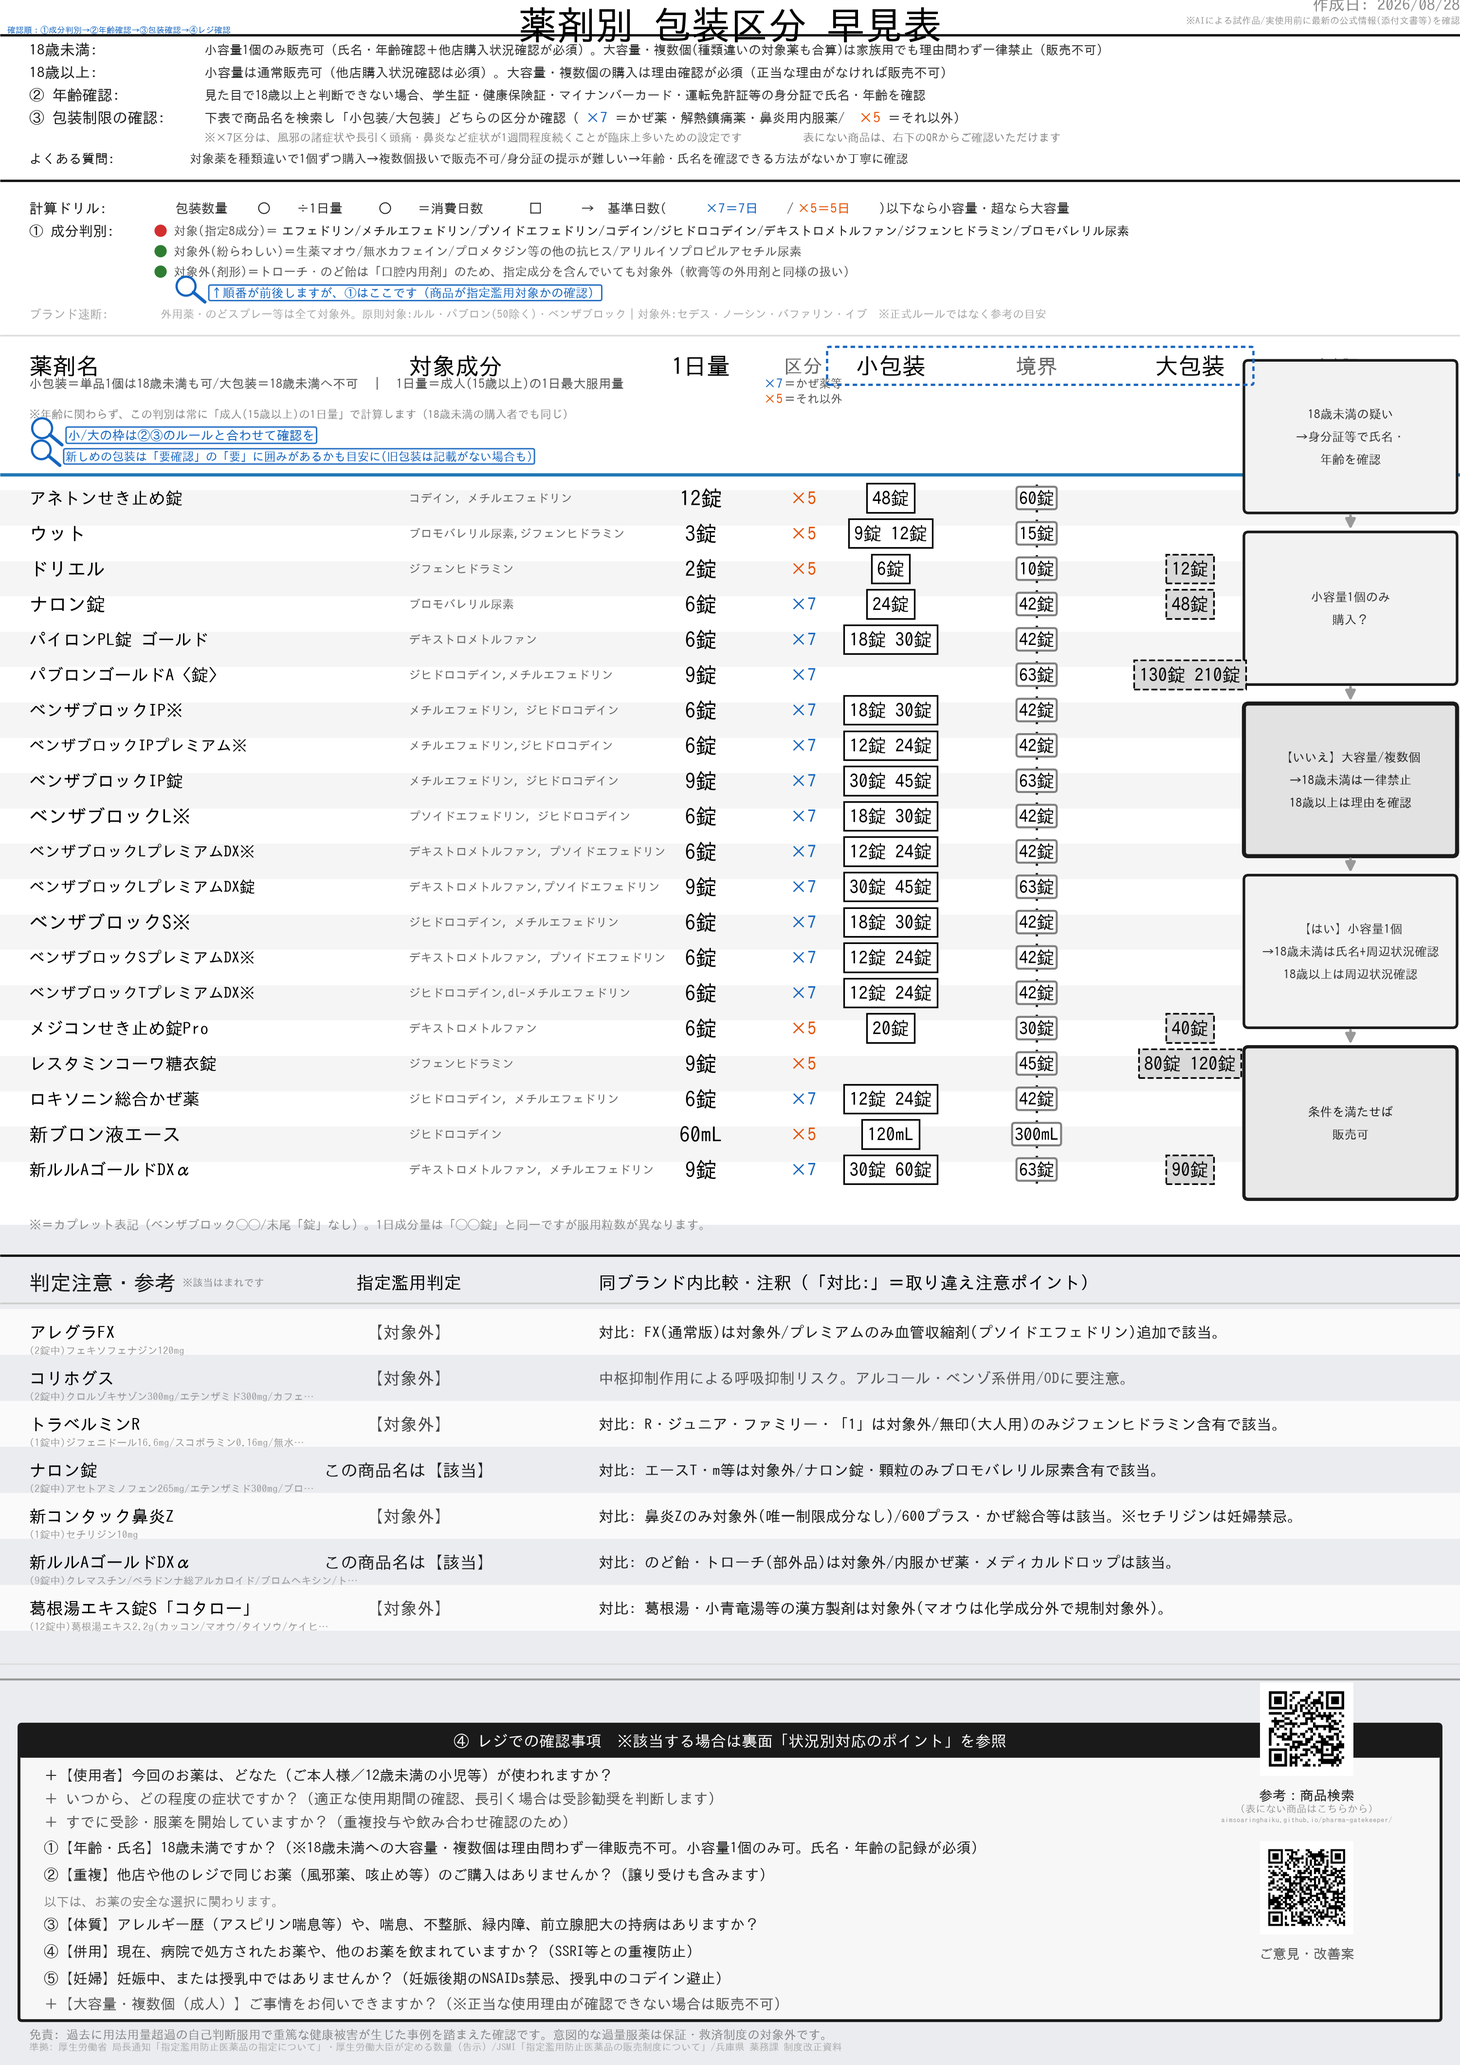
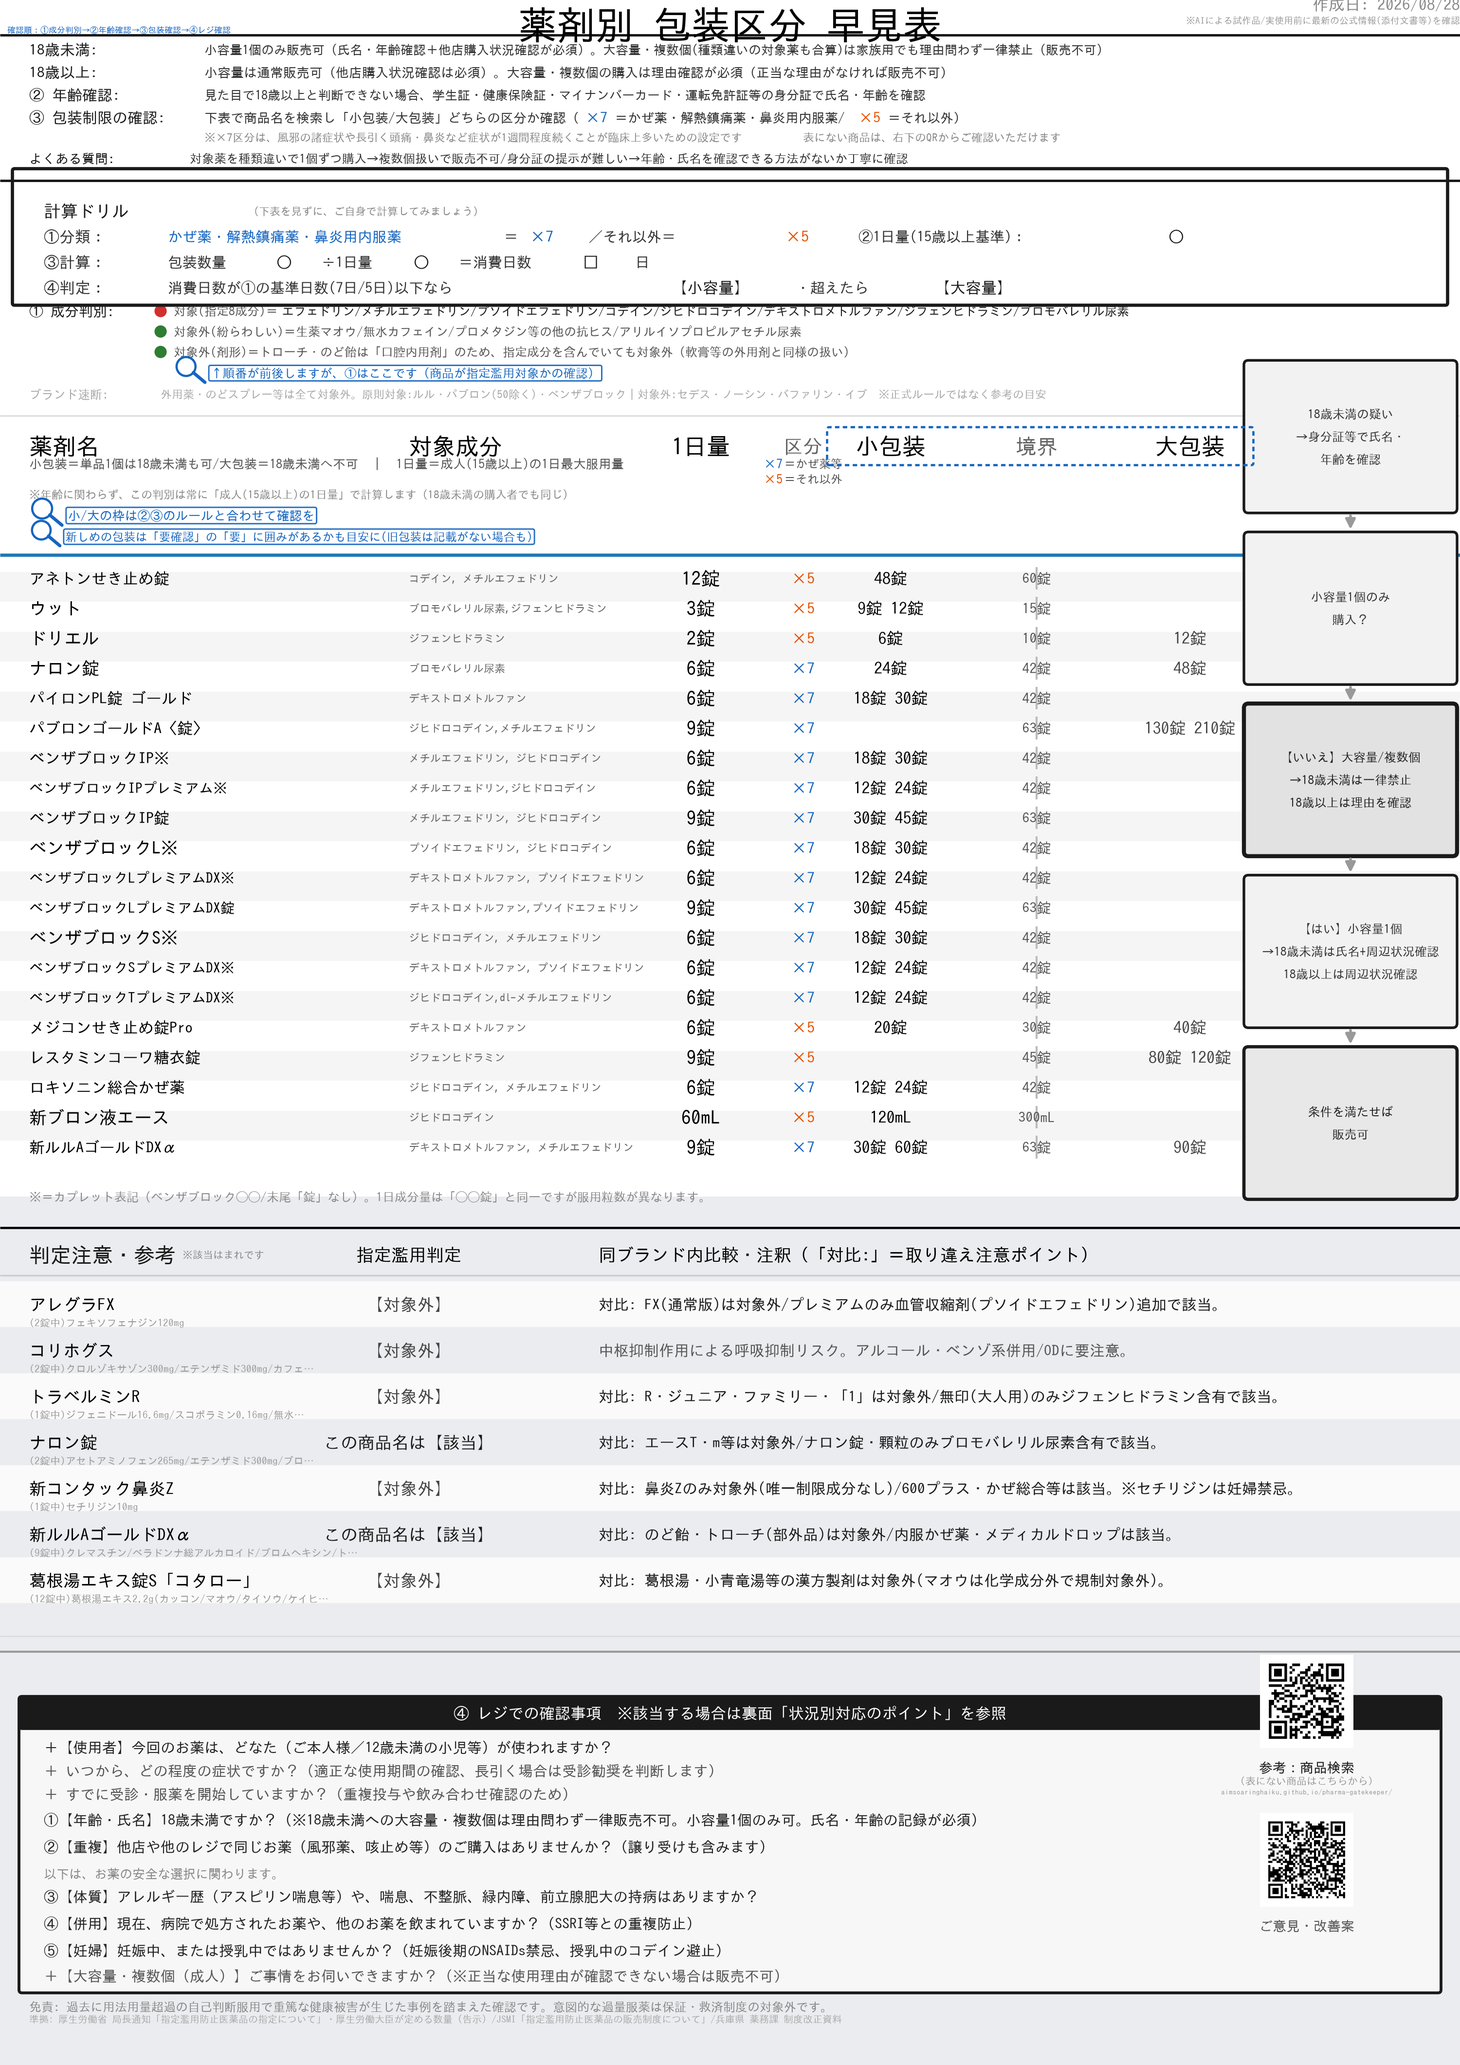
裏面: 虫眼鏡レンズを元資料の該当箇所に重ね脚注ボックスへ線を伸ばす方式に変更 表面: ドリルを拡大・太枠化し情報量を増加、製品テーブルの行間を圧縮して枠を廃止
裏面:
- draw_focus_footnote()を新設。虫眼鏡のレンズを元資料(画像)内の実際の
  言及箇所に直接重ね、点線の持ち手を余白の脚注ボックスまで伸ばして
  「」付きテキストで説明する構成に変更(参考①②③すべてに適用)
- wrap_to_widthが「」を改行区切りとして認識していなかったため、
  脚注文の末尾で孤立行が出る不具合も修正

表面:
- 「計算ドリル」を1行のミニ版から、①分類→②1日量→③計算→④判定の
  4行構成・太枠囲みに拡大し情報量を増やした
- 製品テーブルの行高を2.42→2.05に圧縮し、生まれた余白をドリル拡大に
  充当。小包装/境界/大包装の数値を囲んでいた□を廃止し、太字のみに
  変更してすっきりさせた

Claude-Session: https://claude.ai/code/session_01HtDFe8WnY993KR3Dojx73s

diff --git a/vpc_v12_front.py b/vpc_v12_front.py
@@ -246,22 +246,41 @@ current_y -= 1.5
 ax.hlines(current_y, 0, LOGICAL_W, colors=INK, linewidth=1.2)
 current_y -= 0.35
 
-# --- 計算手順・成分判別・ブランド速断（実務でよく使う判別系を、本体テーブルの直前に集約） ---
-current_y -= 1.55
-ax.text(COL_NAME_X, current_y, "計算ドリル:", fontsize=7.07, fontweight="bold", ha="left", va="center", color=INK)
-ax.text(COL_NAME_X + 10.0, current_y, "包装数量", fontsize=6.4, ha="left", va="center", color="#333333")
-ax.text(COL_NAME_X + 15.6, current_y, "〇", fontsize=7.0, fontweight="bold", ha="left", va="center", color=INK)
-ax.text(COL_NAME_X + 18.3, current_y, "÷1日量", fontsize=6.4, ha="left", va="center", color="#333333")
-ax.text(COL_NAME_X + 23.9, current_y, "〇", fontsize=7.0, fontweight="bold", ha="left", va="center", color=INK)
-ax.text(COL_NAME_X + 26.6, current_y, "＝消費日数", fontsize=6.4, ha="left", va="center", color="#333333")
-ax.text(COL_NAME_X + 34.2, current_y, "□", fontsize=7.0, fontweight="bold", ha="left", va="center", color=INK)
-ax.text(COL_NAME_X + 36.9, current_y,
-        "　→　基準日数(", fontsize=6.4, ha="left", va="center", color="#333333")
-ax.text(COL_NAME_X + 46.3, current_y, "×7＝7日", fontsize=6.4, fontweight="bold", ha="left", va="center", color=BLUE)
-ax.text(COL_NAME_X + 51.9, current_y, "/", fontsize=6.4, ha="left", va="center", color="#333333")
-ax.text(COL_NAME_X + 52.6, current_y, "×5＝5日", fontsize=6.4, fontweight="bold", ha="left", va="center", color=ORANGE)
-ax.text(COL_NAME_X + 58.2, current_y, ")以下なら小容量・超なら大容量", fontsize=6.4, ha="left", va="center", color="#333333")
-current_y -= 1.55
+# --- 計算ドリル（実務でよく使う判別系を、本体テーブルの直前に集約。太枠で目立たせる） ---
+DRILL_FS, DRILL_LH = 7.6, 1.75
+drill_top = current_y + 1.0
+current_y -= 1.75
+ax.text(COL_NAME_X + 1.0, current_y, "計算ドリル", fontsize=8.3, fontweight="bold", ha="left", va="center", color=INK)
+ax.text(COL_NAME_X + 15.0, current_y, "（下表を見ずに、ご自身で計算してみましょう）", fontsize=5.4, fontstyle="italic",
+        ha="left", va="center", color=LGRAY)
+current_y -= DRILL_LH
+ax.text(COL_NAME_X + 1.0, current_y, "①分類：", fontsize=DRILL_FS, fontweight="bold", ha="left", va="center", color="#333333")
+ax.text(COL_NAME_X + 9.5, current_y, "かぜ薬・解熱鎮痛薬・鼻炎用内服薬", fontsize=DRILL_FS - 0.4, ha="left", va="center", color=BLUE)
+ax.text(COL_NAME_X + 32.5, current_y, "＝", fontsize=DRILL_FS - 0.4, ha="left", va="center", color="#333333")
+ax.text(COL_NAME_X + 34.3, current_y, "×7", fontsize=DRILL_FS, fontweight="bold", ha="left", va="center", color=BLUE)
+ax.text(COL_NAME_X + 38.3, current_y, "／それ以外＝", fontsize=DRILL_FS - 0.4, ha="left", va="center", color="#333333")
+ax.text(COL_NAME_X + 51.8, current_y, "×5", fontsize=DRILL_FS, fontweight="bold", ha="left", va="center", color=ORANGE)
+ax.text(COL_NAME_X + 55.8, current_y, "　②1日量(15歳以上基準)：", fontsize=DRILL_FS - 0.4, ha="left", va="center", color="#333333")
+ax.text(COL_NAME_X + 78.0, current_y, "〇", fontsize=DRILL_FS + 0.6, fontweight="bold", ha="left", va="center", color=INK)
+current_y -= DRILL_LH
+ax.text(COL_NAME_X + 1.0, current_y, "③計算：", fontsize=DRILL_FS, fontweight="bold", ha="left", va="center", color="#333333")
+ax.text(COL_NAME_X + 9.5, current_y, "包装数量", fontsize=DRILL_FS - 0.4, ha="left", va="center", color="#333333")
+ax.text(COL_NAME_X + 16.9, current_y, "〇", fontsize=DRILL_FS + 0.6, fontweight="bold", ha="left", va="center", color=INK)
+ax.text(COL_NAME_X + 20.0, current_y, "÷1日量", fontsize=DRILL_FS - 0.4, ha="left", va="center", color="#333333")
+ax.text(COL_NAME_X + 26.3, current_y, "〇", fontsize=DRILL_FS + 0.6, fontweight="bold", ha="left", va="center", color=INK)
+ax.text(COL_NAME_X + 29.4, current_y, "＝消費日数", fontsize=DRILL_FS - 0.4, ha="left", va="center", color="#333333")
+ax.text(COL_NAME_X + 37.9, current_y, "□", fontsize=DRILL_FS + 0.6, fontweight="bold", ha="left", va="center", color=INK)
+ax.text(COL_NAME_X + 41.5, current_y, "日", fontsize=DRILL_FS - 0.4, ha="left", va="center", color="#333333")
+current_y -= DRILL_LH
+ax.text(COL_NAME_X + 1.0, current_y, "④判定：", fontsize=DRILL_FS, fontweight="bold", ha="left", va="center", color="#333333")
+ax.text(COL_NAME_X + 9.5, current_y, "消費日数が①の基準日数(7日/5日)以下なら", fontsize=DRILL_FS - 0.4, ha="left", va="center", color="#333333")
+ax.text(COL_NAME_X + 44.0, current_y, "【小容量】", fontsize=DRILL_FS, fontweight="bold", ha="left", va="center", color=INK)
+ax.text(COL_NAME_X + 52.5, current_y, "・超えたら", fontsize=DRILL_FS - 0.4, ha="left", va="center", color="#333333")
+ax.text(COL_NAME_X + 62.0, current_y, "【大容量】", fontsize=DRILL_FS, fontweight="bold", ha="left", va="center", color=INK)
+current_y -= 1.05
+ax.add_patch(patches.FancyBboxPatch((COL_NAME_X - 1.0, current_y), LOGICAL_W - 2 * (COL_NAME_X - 1.0), drill_top - current_y,
+                                     boxstyle="round,pad=0.15", linewidth=1.6, edgecolor=INK, facecolor="none", zorder=6))
+current_y -= 0.55
 ax.text(COL_NAME_X, current_y, "① 成分判別:", fontsize=7.07, fontweight="bold", ha="left", va="center", color=INK)
 marker(ax, COL_NAME_X + 9.0, current_y, RED, "circle", 0.42)
 ax.text(COL_NAME_X + 9.9, current_y, "対象(指定8成分)＝", fontsize=5.9, ha="left", va="center", color=GRAY)
@@ -335,7 +354,7 @@ ax.hlines(current_y, 0, LOGICAL_W, linewidth=1.6)
 current_y -= 1.6
 
 main_rows = len(mart)
-row_height = 2.42
+row_height = 2.05
 
 # --- レジ確認フロー（本体テーブル右の空きスペースに縦長ミニフローチャート） ---
 FLOW_HALF_W = 7.0
@@ -372,10 +391,10 @@ for idx, (lines, edge_color, fill_color, edge_w) in enumerate(flow_nodes):
 
 for i, row in mart.iterrows():
     if i % 2 == 0:
-        ax.add_patch(patches.Rectangle((0, current_y - 1.9), LOGICAL_W, row_height, facecolor="#f5f5f5", edgecolor="none", zorder=0))
+        ax.add_patch(patches.Rectangle((0, current_y - row_height * 0.785), LOGICAL_W, row_height, facecolor="#f5f5f5", edgecolor="none", zorder=0))
 
     name_len = len(row["product"])
-    name_fontsize = 9.4 if name_len <= 8 else (8.5 if name_len <= 12 else 7.6)
+    name_fontsize = 8.6 if name_len <= 8 else (7.8 if name_len <= 12 else 7.0)
     name_text = row["product"] + ("※" if row["is_caplet"] else "")
     ax.text(COL_NAME_X, current_y, name_text, fontsize=name_fontsize, fontweight="bold", ha="left", va="center")
 
@@ -383,27 +402,24 @@ for i, row in mart.iterrows():
         clean_ingr = re.sub(r'(塩酸塩|リン酸塩|硫酸塩|臭化水素酸塩|マレイン酸塩|酒石酸塩|フマル酸塩)', '', row["ingredients"])
         if len(clean_ingr) > 26:
             clean_ingr = clean_ingr[:26] + "…"
-        ax.text(COL_INGR_X, current_y, clean_ingr, fontsize=5.8, ha="left", va="center", color="#666666")
+        ax.text(COL_INGR_X, current_y, clean_ingr, fontsize=5.4, ha="left", va="center", color="#666666")
     else:
-        ax.text(COL_INGR_X, current_y, "-", fontsize=7.93, ha="left", va="center", color="#aaaaaa")
+        ax.text(COL_INGR_X, current_y, "-", fontsize=7.2, ha="left", va="center", color="#aaaaaa")
 
-    ax.text(COL_DOSE_X, current_y, row["daily"], fontsize=10.37, ha="center", va="center")
+    ax.text(COL_DOSE_X, current_y, row["daily"], fontsize=9.4, ha="center", va="center")
 
     mult_color = "#1565c0" if row["limit"] == 7 else "#e65100"
-    ax.text(COL_MULT_X, current_y, f"×{row['limit']}", fontsize=8.54, ha="center", va="center",
+    ax.text(COL_MULT_X, current_y, f"×{row['limit']}", fontsize=7.8, ha="center", va="center",
             color=mult_color, fontweight="bold")
 
     if row["small"] != "-":
-        ax.text(COL_SMALL_X, current_y, row["small"], fontsize=8.91, ha="center", va="center",
-                bbox=dict(boxstyle="square,pad=0.3", facecolor="white", edgecolor="black", linewidth=0.8))
+        ax.text(COL_SMALL_X, current_y, row["small"], fontsize=8.1, fontweight="bold", ha="center", va="center")
 
-    ax.vlines(COL_BOUND_X, current_y - 0.95, current_y + 0.95, color="black", linewidth=1.1, zorder=1)
-    ax.text(COL_BOUND_X, current_y, row["boundary"], fontsize=8.54, ha="center", va="center",
-            bbox=dict(boxstyle="round,pad=0.15", facecolor="white", edgecolor="gray"), zorder=2)
+    ax.vlines(COL_BOUND_X, current_y - 0.78, current_y + 0.78, color="#bbbbbb", linewidth=1.0, zorder=1)
+    ax.text(COL_BOUND_X, current_y, row["boundary"], fontsize=6.9, ha="center", va="center", color=GRAY, zorder=2)
 
     if row["large"] != "-":
-        ax.text(COL_LARGE_X, current_y, row["large"], fontsize=8.91, ha="center", va="center",
-                bbox=dict(boxstyle="square,pad=0.3", facecolor="#d9d9d9", edgecolor="black", linestyle="--", linewidth=0.8))
+        ax.text(COL_LARGE_X, current_y, row["large"], fontsize=8.1, fontweight="bold", ha="center", va="center", color="#444444")
 
     current_y -= row_height
 

diff --git a/vpc_v12_back.py b/vpc_v12_back.py
@@ -58,7 +58,7 @@ def wrap_to_width(text, fontsize, max_width):
     tokens, cur_token = [], ""
     for ch in text:
         cur_token += ch
-        if ch in "。、）)":
+        if ch in "。、）)」":
             tokens.append(cur_token)
             cur_token = ""
     if cur_token:
@@ -84,7 +84,7 @@ def wrap_to_width(text, fontsize, max_width):
 
     merged = []
     for line in final_lines:
-        if merged and len(line) <= 2 and all(c in "。、）)" for c in line):
+        if merged and len(line) <= 2 and all(c in "。、）)」" for c in line):
             merged[-1] += line
         else:
             merged.append(line)
@@ -138,9 +138,29 @@ def draw_magnifier_icon(cx, cy, r, handle_len, color, angle_deg=-40):
     dx, dy = math.cos(rad), math.sin(rad)
     edge_x, edge_y = cx + r * dx, cy + r * dy
     tip_x, tip_y = cx + (r + handle_len) * dx, cy + (r + handle_len) * dy
-    ax.add_patch(patches.Circle((cx, cy), r, facecolor="white", edgecolor=color, linewidth=1.0, zorder=5))
-    ax.plot([edge_x, tip_x], [edge_y, tip_y], color=color, linewidth=1.4, solid_capstyle="round", zorder=5)
+    ax.add_patch(patches.Circle((cx, cy), r, facecolor="none", edgecolor=color, linewidth=1.3, zorder=5))
+    ax.plot([edge_x, tip_x], [edge_y, tip_y], color=color, linewidth=1.5, solid_capstyle="round", zorder=5)
     return tip_x, tip_y
+
+
+def draw_focus_footnote(focus_x, focus_y, lens_r, foot_x, foot_y, text, w, fontsize=3.5, line_h=1.3,
+                         color=RED, halign="left"):
+    """元資料の言及箇所に虫眼鏡のレンズを重ね、持ち手を脚注ボックスまで伸ばして「」付きで説明する。
+    レンズ＝該当箇所に直接かぶせる円。脚注＝余白にボックスで独立配置。"""
+    import math
+    text = text.lstrip("☞")
+    ax.add_patch(patches.Circle((focus_x, focus_y), lens_r, facecolor="none", edgecolor=color, linewidth=1.4, zorder=6))
+    dx, dy = foot_x - focus_x, foot_y - focus_y
+    dist = math.hypot(dx, dy) or 1.0
+    ux, uy = dx / dist, dy / dist
+    edge_x, edge_y = focus_x + lens_r * ux, focus_y + lens_r * uy
+    ax.plot([edge_x, foot_x], [edge_y, foot_y], color=color, linewidth=1.2, linestyle=(0, (3, 2)), zorder=6)
+    lines = wrap_to_width(f"「{text}」", fontsize, w - 1.0)
+    for i, line in enumerate(lines):
+        ax.text(foot_x, foot_y - i * line_h, line, fontsize=fontsize, fontweight="bold",
+                ha=halign, va="center", color=color, fontstyle="italic", zorder=7,
+                bbox=dict(boxstyle="round,pad=0.15", facecolor="white", edgecolor=color, linewidth=0.9, alpha=0.96))
+    return foot_y - len(lines) * line_h
 
 
 def draw_callout_note(cx, cy, text, w, fontsize=3.5, line_h=1.3, color=RED, halign="left"):
@@ -185,8 +205,10 @@ def draw_poster1(x, y_top, w, h):
     y = panel_frame(x, y_top, w, h, "参考① 購入者への掲示例", INK,
                      subtitle="元資料：指定濫用防止医薬品をご購入時フリップ")
     img_x0, img_y1, img_w, img_h = draw_poster_image_fit(x, y, w, y - (y_top - h) - 0.3, IMG_POSTER1)
-    draw_callout_note(img_x0 + img_w * 0.35, img_y1 - 0.370 * img_h,
-                       "☞理由確認は成人(18歳以上)のみ対象", img_w * 0.62, fontsize=4.6, line_h=1.7)
+    focus_y = img_y1 - 0.370 * img_h
+    draw_focus_footnote(img_x0 + img_w * 0.145, focus_y, img_w * 0.045,
+                         img_x0 + img_w * 0.30, focus_y - img_w * 0.03,
+                         "理由確認は成人(18歳以上)のみ対象", img_w * 0.68, fontsize=4.6, line_h=1.7)
 
 
 # ==========================================================
@@ -197,10 +219,11 @@ def draw_poster2(x, y_top, w, h):
                      subtitle="元資料：薬物濫用ポスター「大切なお知らせ」")
     frame_bottom = y_top - h
     img_x0, img_y1, img_w, img_h = draw_poster_image_fit(x, y, w, y - frame_bottom - 6.8, IMG_POSTER2)
+    focus_x, focus_y = img_x0 + img_w * 0.64, img_y1 - 0.843 * img_h
     yy = img_y1 - img_h - 1.1
-    yy = draw_callout_note(x + 0.4, yy,
-                            "☞目印の傾向：外枠の「要確認」表示は小/大容量共通。大容量は「要」の文字にさらに囲みが付くことが多い",
-                            w - 0.8, fontsize=4.5, line_h=1.8, color=RED)
+    yy = draw_focus_footnote(focus_x, focus_y, img_w * 0.05, x + 0.4, yy,
+                              "目印の傾向：外枠の「要確認」表示は小/大容量共通。大容量は「要」の文字にさらに囲みが付くことが多い",
+                              w - 0.8, fontsize=4.5, line_h=1.8, color=RED)
     yy -= 0.25
     yy = draw_callout_note(x + 0.4, yy,
                             "パッケージ表記は数年かけて順次変更される予定。変更後もお客様へ正しくご案内できるよう、"
@@ -216,8 +239,10 @@ def draw_poster3_flow(x, y_top, w, h):
                      subtitle="元資料：販売可否判断フローチャート")
     frame_bottom = y_top - h
     img_x0, img_y1, img_w, img_h = draw_poster_image_fit(x, y, w, y - frame_bottom - 0.3, IMG_FLOWCHART)
-    draw_callout_note(img_x0 + img_w * 0.60, img_y1 - 0.838 * img_h,
-                       "☞販売しても「申し送り」が必要な場合あり", img_w * 0.40, fontsize=4.1, line_h=1.55)
+    focus_y = img_y1 - 0.803 * img_h
+    draw_focus_footnote(img_x0 + img_w * 0.70, focus_y, img_w * 0.055,
+                         img_x0 + img_w * 0.44, focus_y - img_w * 0.095,
+                         "販売しても申し送り要", img_w * 0.30, fontsize=4.0, line_h=1.5)
 
 
 draw_poster1(Q1_X, ROW1_TOP, COL_W, ROW_H)
